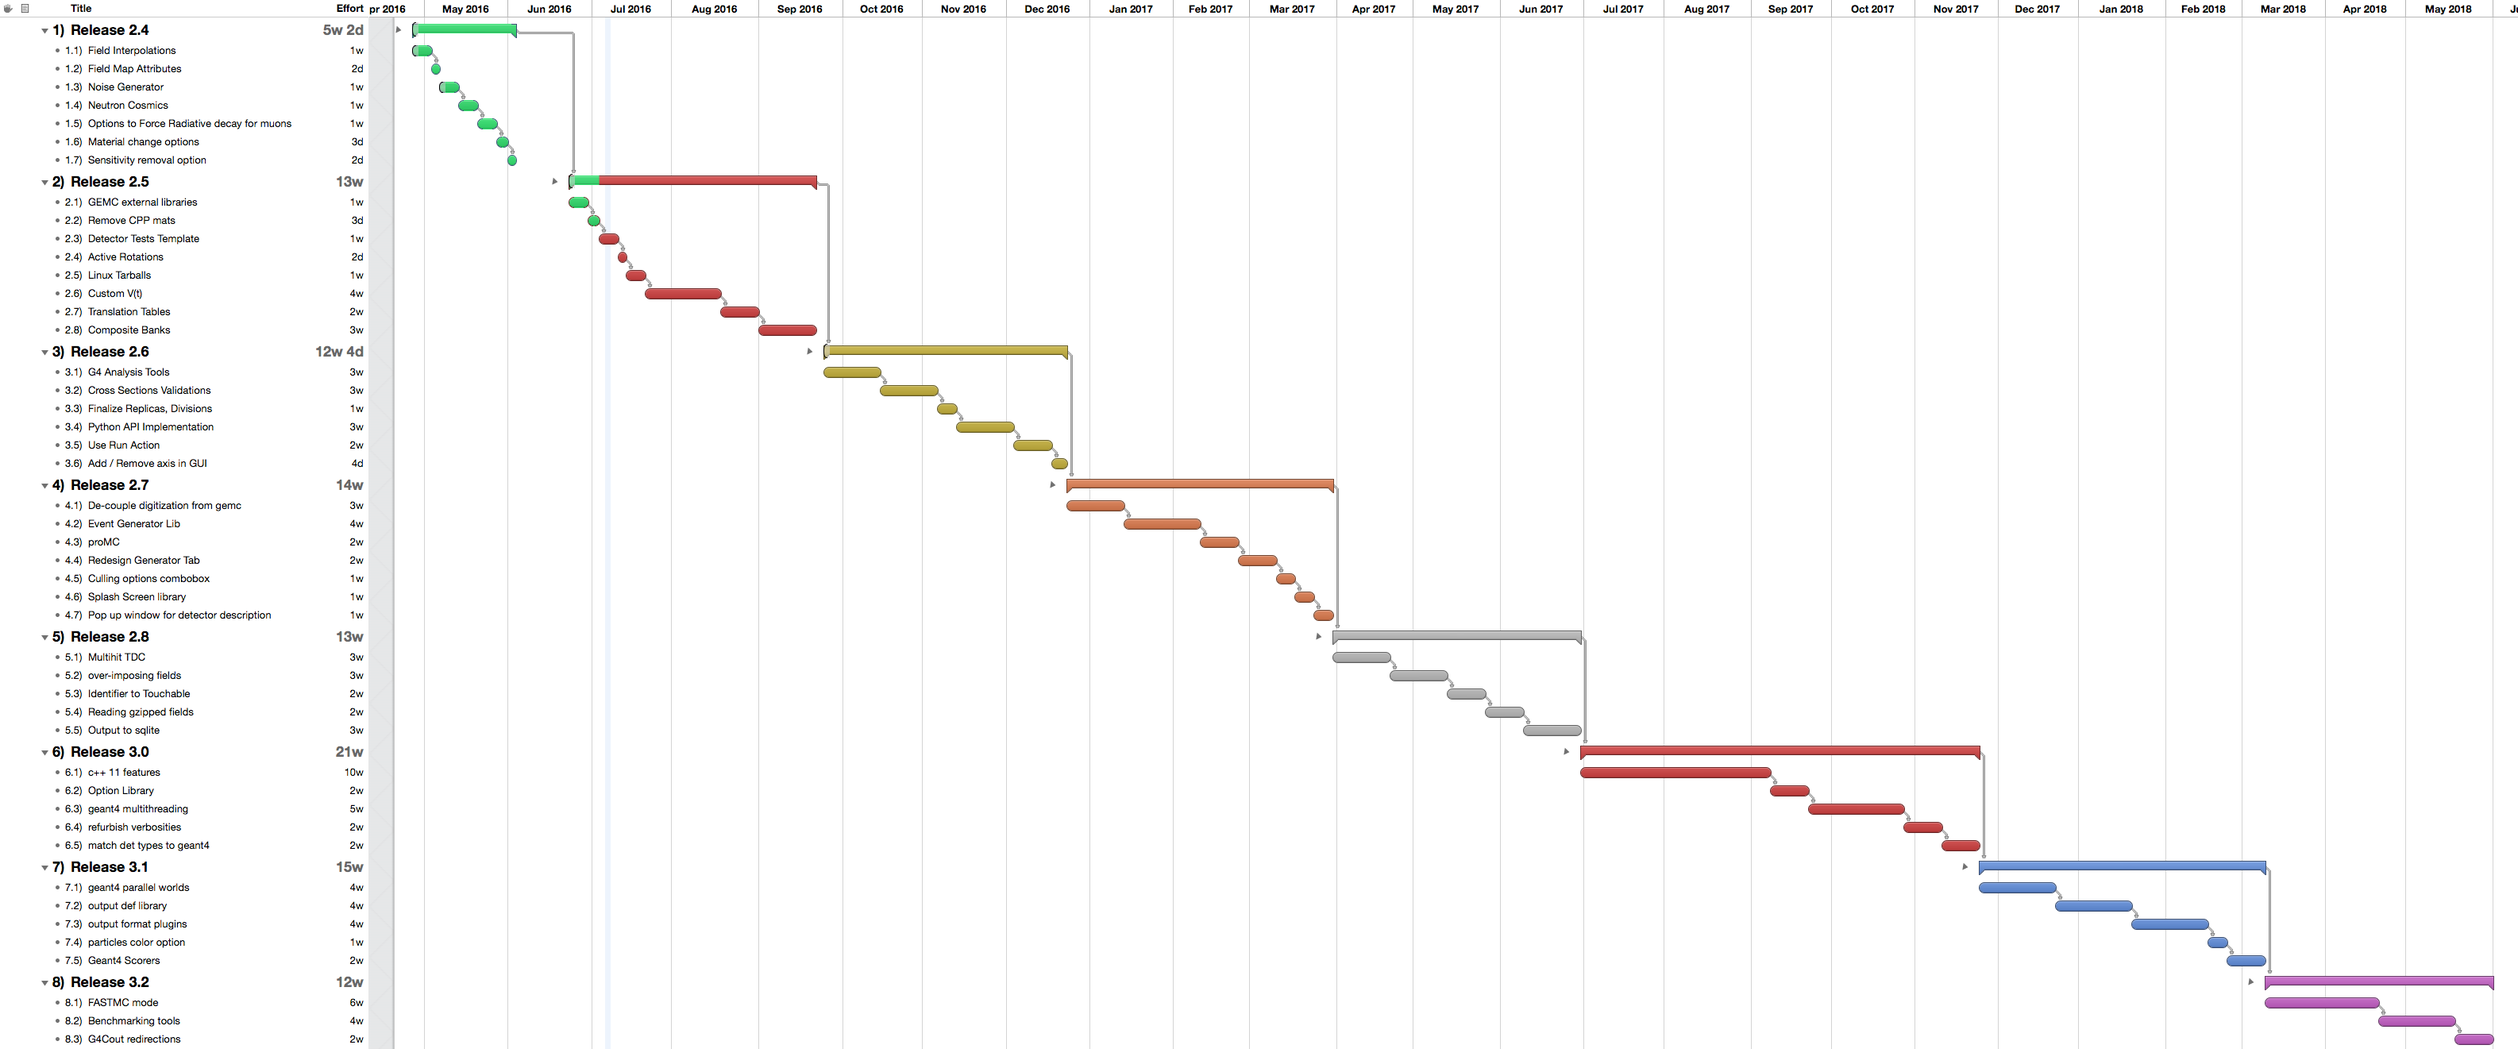
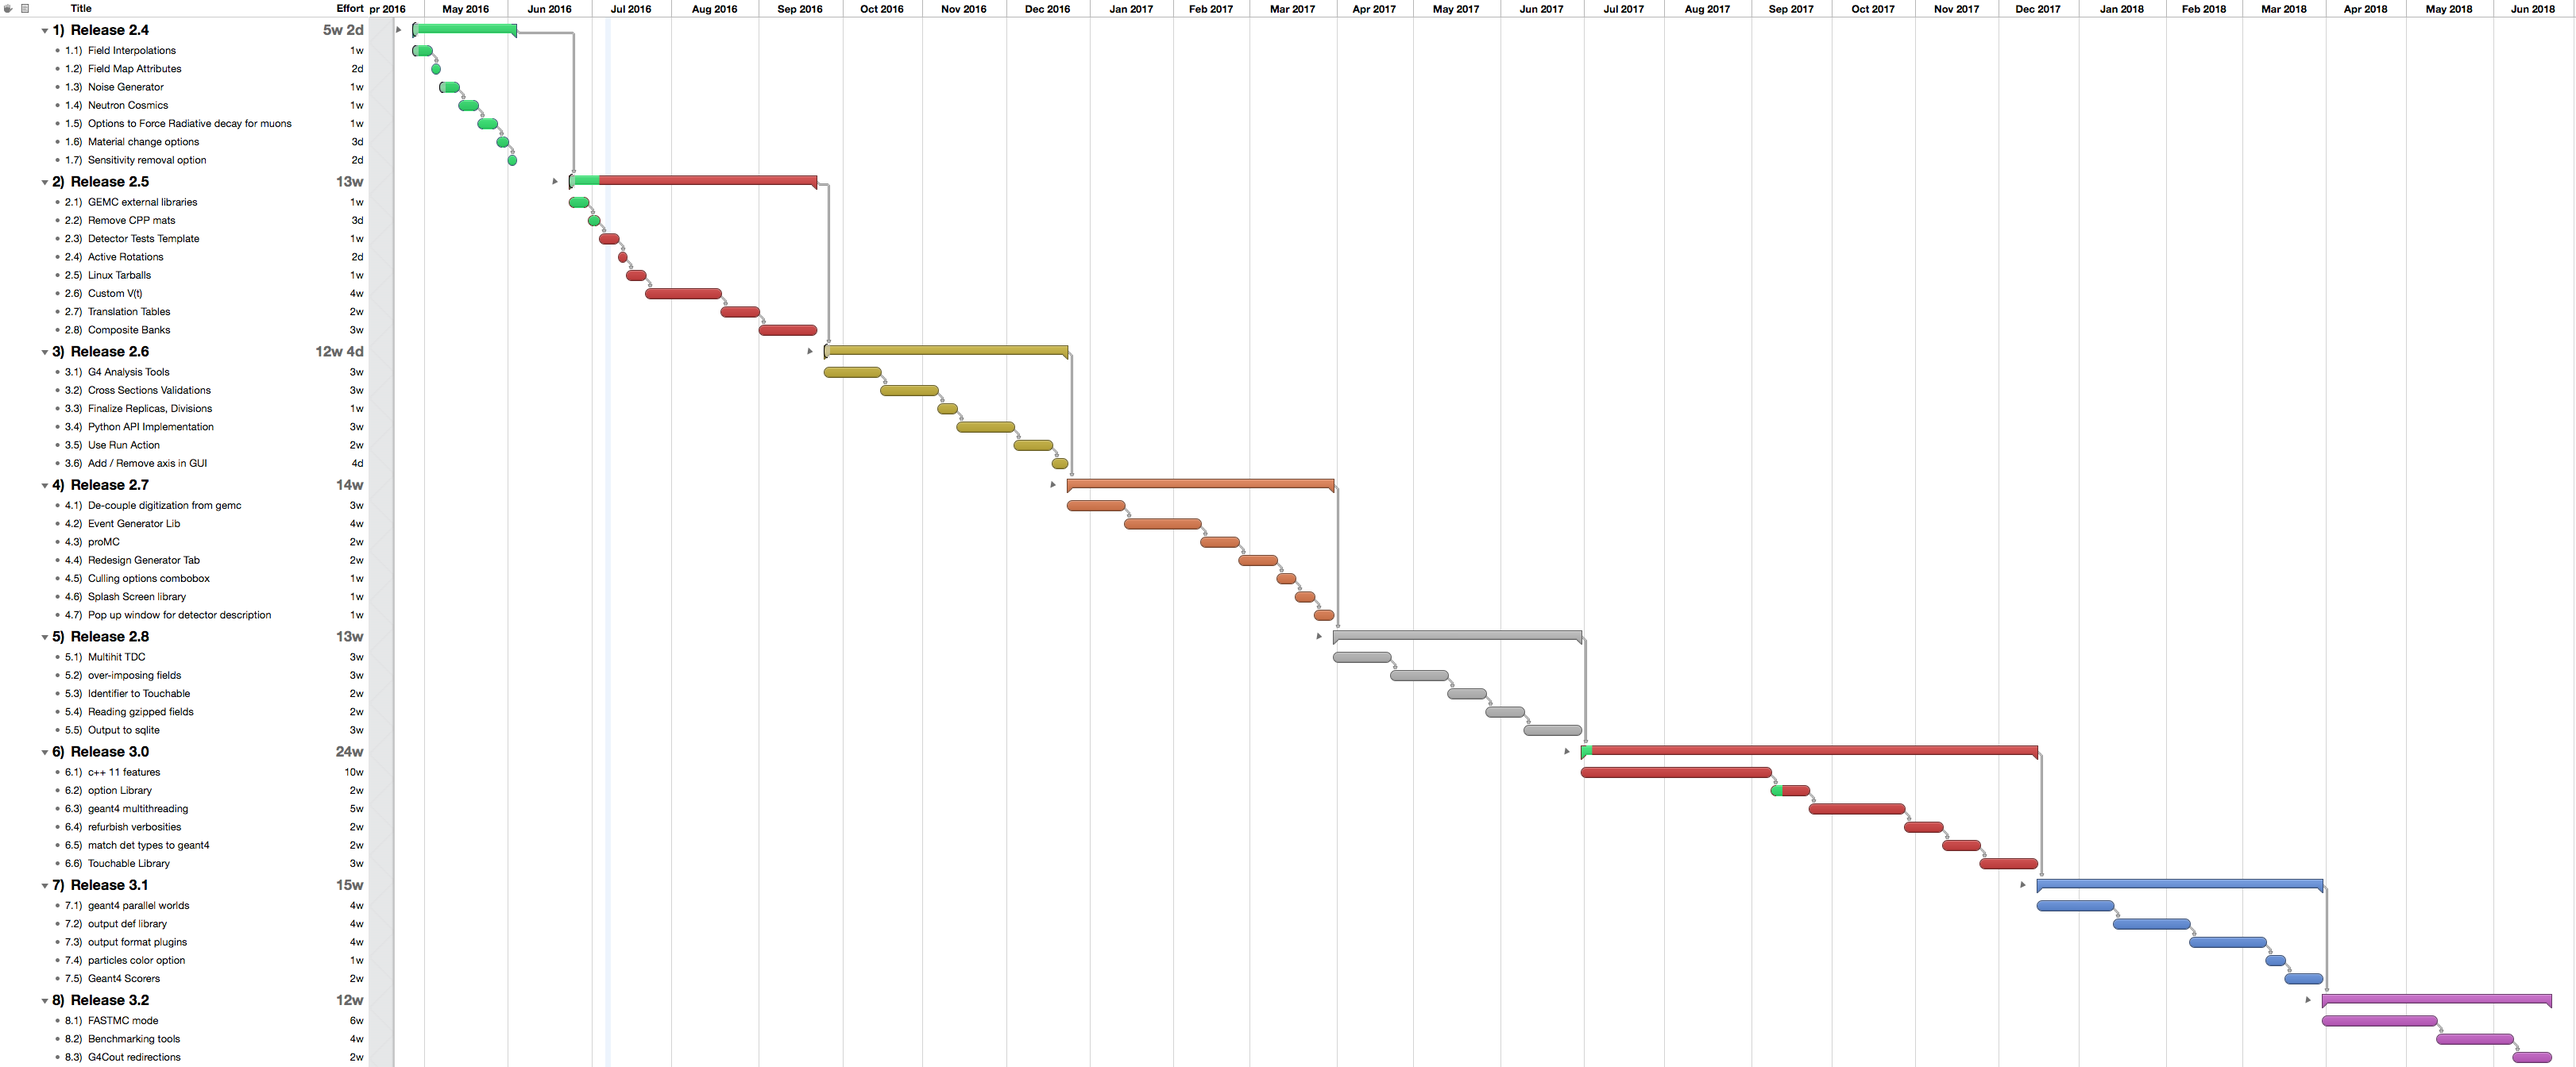
added touchable library in the roadmap

diff --git a/webPage/source/documentation/releases/roadmap.rst b/webPage/source/documentation/releases/roadmap.rst
@@ -127,6 +127,8 @@ GEMC 3.0 - October 2017
 
 - Match detector types to geant4.
 
+- Touchable library: contains vector<identifier>. Optimize with no string operations?
+
 
 GEMC 3.1 - January 2018
 -----------------------
